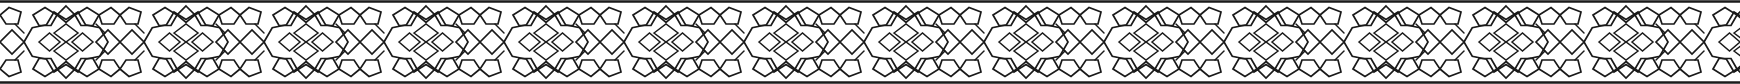
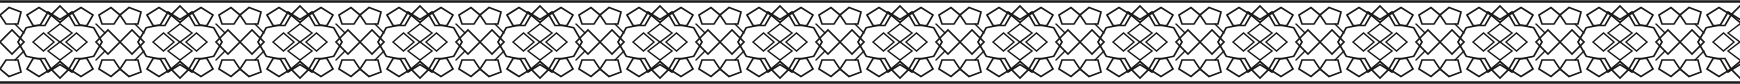
Musterstreifen-Kachel rezentrieren (Stern-Cluster war 4 Einheiten versetzt)
Der Sternstern samt Innenkern und umgebenden Vielecken war um x=44
zentriert, während die Kachel (Breite 80) ihre Mitte bei x=40 hat und die
seitlichen Verbindungsrauten dort bereits korrekt zentriert sind. Dadurch
berührte der Stern die linke Raute exakt an einem Punkt, überlappte die
rechte aber um 8 statt symmetrisch um je 4 Einheiten - sichtbar als
ungleichmäßiger Abstand links/rechts um jeden Stern. Alle Innenformen
(Stern, Kern, kleine Rauten, ineinandergreifende Vielecke) um 4 Einheiten
nach links auf die Kachelmitte verschoben, sodass jede Wiederholungs-
einheit jetzt wirklich symmetrisch ("in sich mittig") ist.

Claude-Session: https://claude.ai/code/session_019vMJotETzTJGAaB8Uzutz7

Changed region(s): [[0.0, 0.0714, 1.0, 0.9286]]

diff --git a/lib/patternStrip.ts b/lib/patternStrip.ts
@@ -15,11 +15,18 @@ export const MUSTERSTREIFEN_KACHEL_HOEHE = 56;
 export const MUSTERSTREIFEN_RAHMEN_Y = [1, 55] as const;
 export const MUSTERSTREIFEN_RAHMEN_STRICHSTAERKE = 1.6;
 
-/** Hauptformen - achtzackiger Stern, Vieleck-/Rauten-Reihen, stroke-width 1.15. */
+/**
+ * Hauptformen - achtzackiger Stern, Vieleck-/Rauten-Reihen, stroke-width 1.15.
+ * Der Stern samt umgebendem Innenkern/Rauten war ursprünglich um x=44 zentriert, obwohl die
+ * Kachel (Breite 80) ihre Mitte bei x=40 hat und die seitlichen Rauten dort auch korrekt
+ * zentriert sind - der Stern berührte die linke Raute exakt, überlappte die rechte aber um
+ * 8 statt symmetrisch je 4 Einheiten. Um 4 Einheiten nach links verschoben, damit der Stern-
+ * Cluster wirklich in der Kachel zentriert ("in sich mittig") ist.
+ */
 export const MUSTERSTREIFEN_HAUPT_STRICHSTAERKE = 1.15;
 export const MUSTERSTREIFEN_HAUPT_PFADE: string[] = [
-  // Achtzackiger Hauptstern
-  "M16,28 L21.5,18.5 L31,16.5 L36,8 L44,13 L52,8 L57,16.5 L66.5,18.5 L72,28 L66.5,37.5 L57,39.5 L52,48 L44,43 L36,48 L31,39.5 L21.5,37.5 Z",
+  // Achtzackiger Hauptstern (auf Kachelmitte x=40 zentriert)
+  "M12,28 L17.5,18.5 L27,16.5 L32,8 L40,13 L48,8 L53,16.5 L62.5,18.5 L68,28 L62.5,37.5 L53,39.5 L48,48 L40,43 L32,48 L27,39.5 L17.5,37.5 Z",
   // Obere Vieleck-Reihe (Kachelränder links/rechts)
   "M0,10 L6,5 L14,8 L12,16 L4,16 Z",
   "M66,10 L74,5 L80,10 L76,16 L68,16 Z",
@@ -30,22 +37,22 @@ export const MUSTERSTREIFEN_HAUPT_PFADE: string[] = [
   "M0,28 L8,20 L16,28 L8,36 Z",
   "M64,28 L72,20 L80,28 L72,36 Z",
   // Obere/untere vertikale Rauten
-  "M44,4 L50,10 L44,15 L38,10 Z",
-  "M44,41 L50,46 L44,52 L38,46 Z",
+  "M40,4 L46,10 L40,15 L34,10 Z",
+  "M40,41 L46,46 L40,52 L34,46 Z",
   // Ineinandergreifende Vielecke
-  "M22,10 L30,5 L38,10 L34,17 L26,17 Z",
-  "M50,10 L58,5 L66,10 L62,17 L54,17 Z",
-  "M22,46 L30,51 L38,46 L34,39 L26,39 Z",
-  "M50,46 L58,51 L66,46 L62,39 L54,39 Z",
+  "M18,10 L26,5 L34,10 L30,17 L22,17 Z",
+  "M46,10 L54,5 L62,10 L58,17 L50,17 Z",
+  "M18,46 L26,51 L34,46 L30,39 L22,39 Z",
+  "M46,46 L54,51 L62,46 L58,39 L50,39 Z",
 ];
 
-/** Innerer Sternkern + kleine Verbindungsrauten, stroke-width 1.0. */
+/** Innerer Sternkern + kleine Verbindungsrauten, stroke-width 1.0 (ebenfalls auf x=40 rezentriert). */
 export const MUSTERSTREIFEN_INNEN_STRICHSTAERKE = 1.0;
 export const MUSTERSTREIFEN_INNEN_PFADE: string[] = [
-  "M36,22 L44,16 L52,22 L44,28 Z",
-  "M36,34 L44,28 L52,34 L44,40 Z",
-  "M26,28 L33,22 L40,28 L33,34 Z",
-  "M48,28 L55,22 L62,28 L55,34 Z",
+  "M32,22 L40,16 L48,22 L40,28 Z",
+  "M32,34 L40,28 L48,34 L40,40 Z",
+  "M22,28 L29,22 L36,28 L29,34 Z",
+  "M44,28 L51,22 L58,28 L51,34 Z",
 ];
 
 /** Feine Gitterlinien, stroke-width 0.95. */
